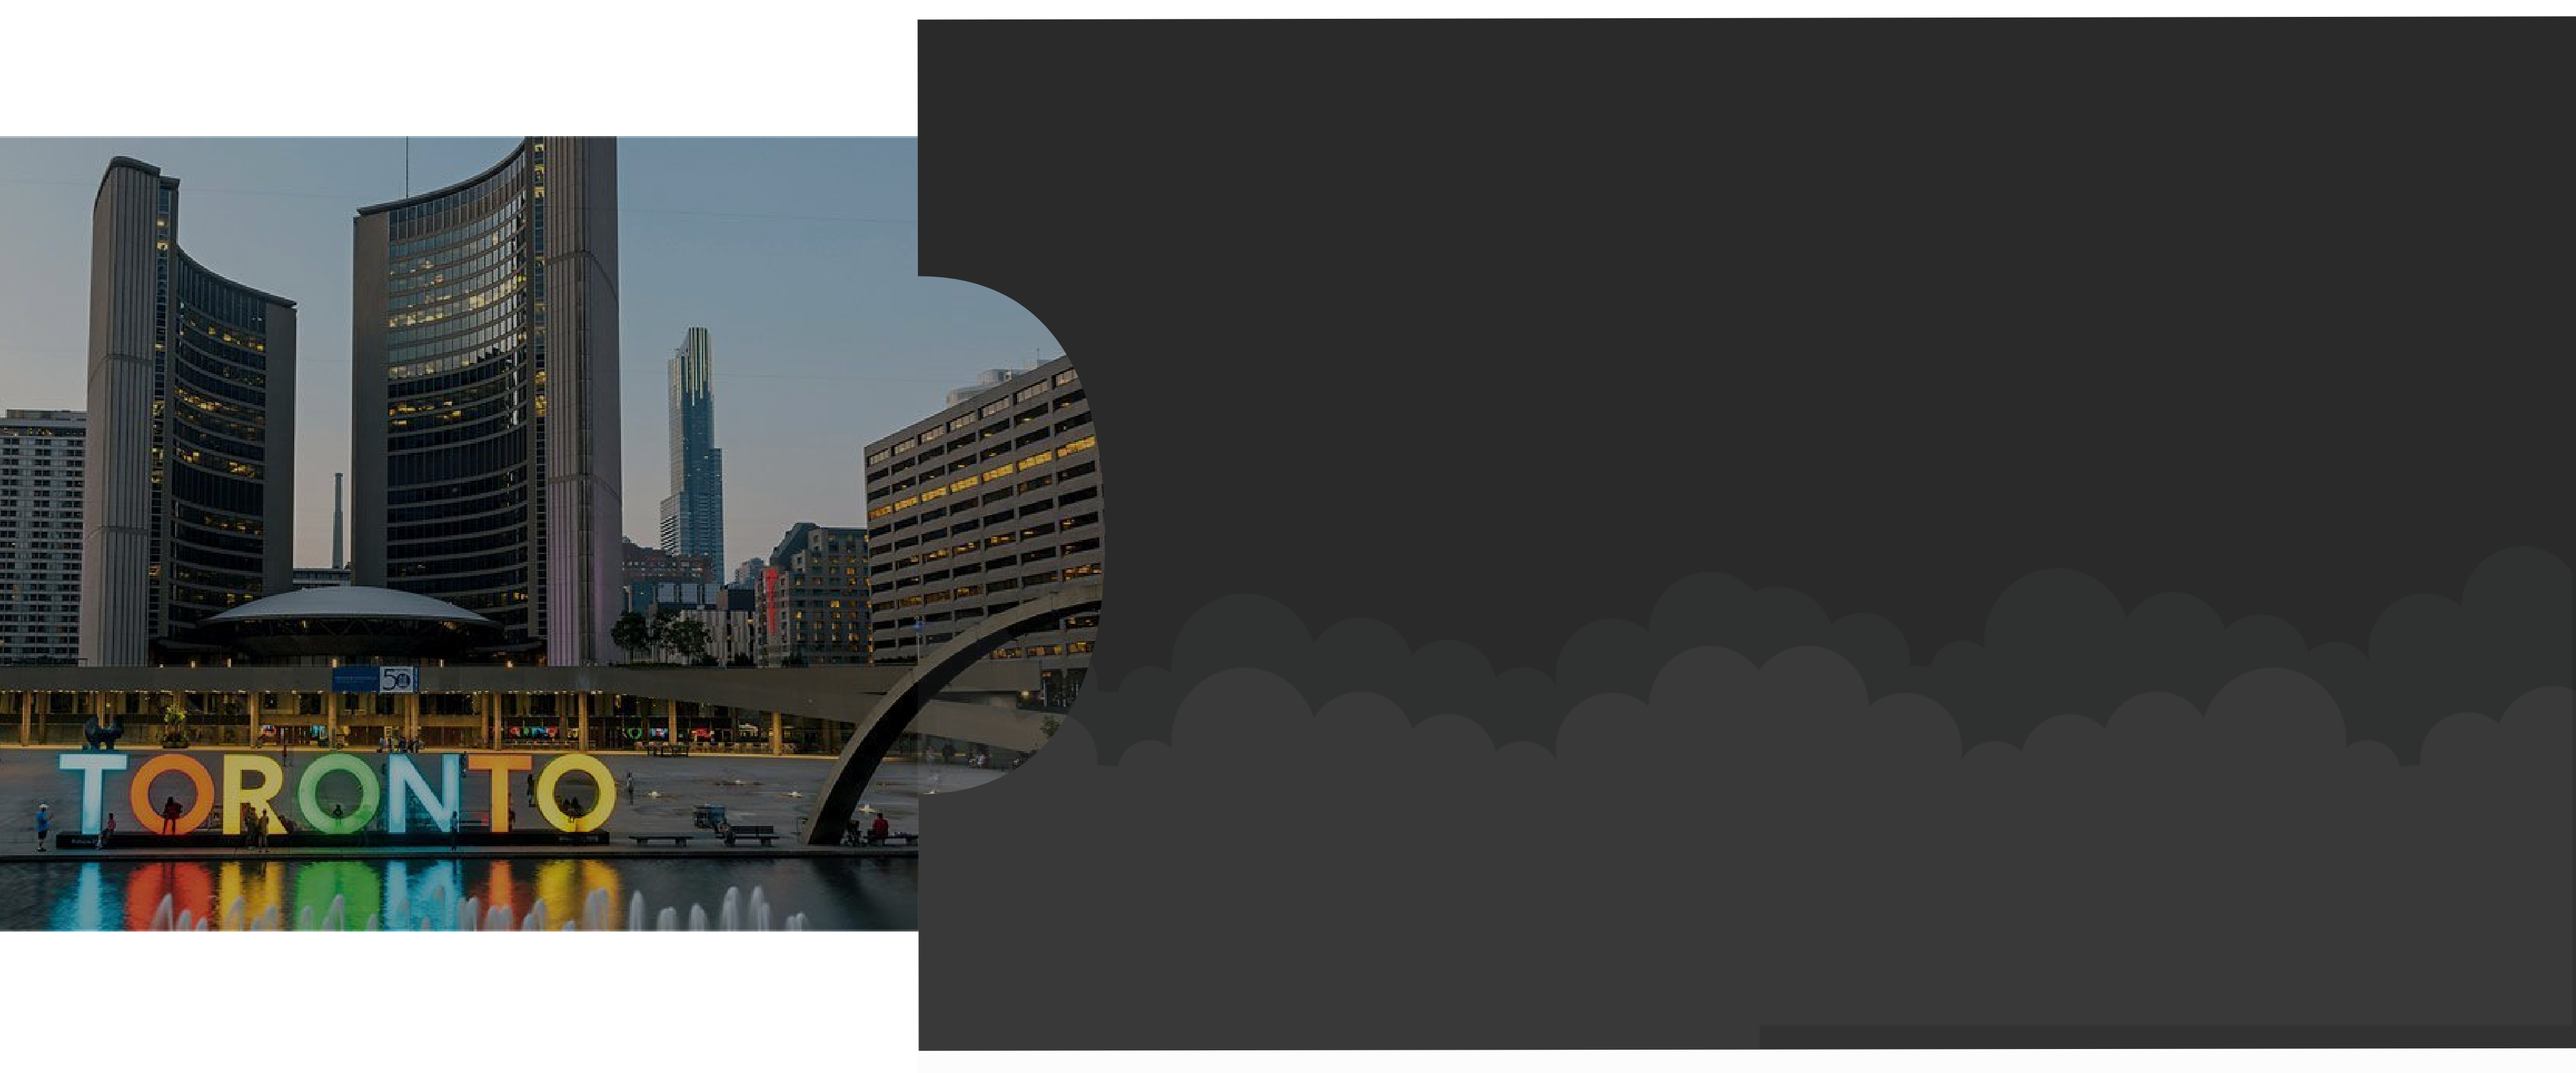
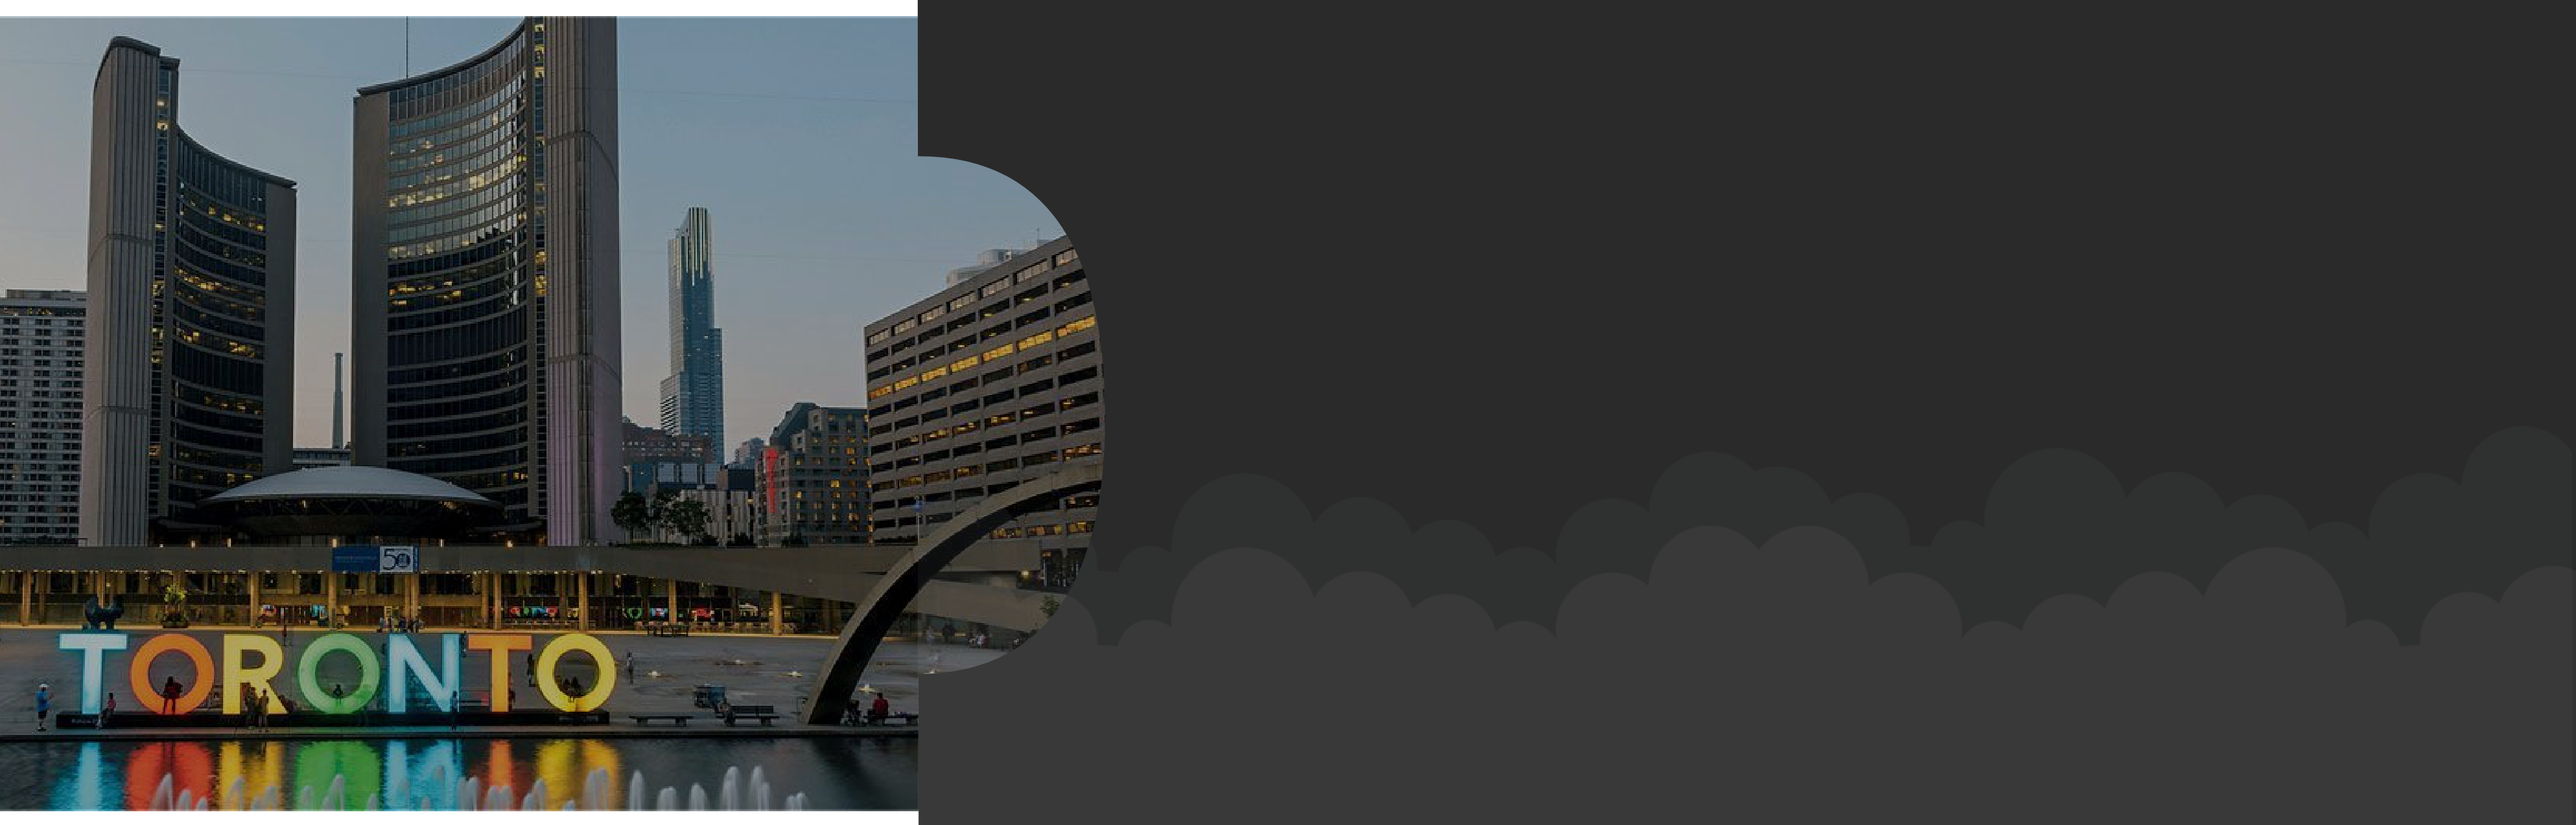
slider added and bonus section improved

Changed region(s): [[0.0, 0.0, 1.0, 1.0], [0.2496, 0.2449, 0.2808, 0.3673], [0.2496, 0.398, 0.2808, 0.4286]]

diff --git a/index.html b/index.html
@@ -254,7 +254,39 @@
                 <hr width="50px" style="height: 5px ;margin-bottom: 50px" color="red">
             </div>
             <div class="laptop-image " style="display: block">
-                <img src="img/laptop/laptop.png" width="100%" alt="">
+                <div id="demo" class="carousel slide" data-ride="carousel" data-interval="3000">
+
+                    <!-- Indicators -->
+                    <ul class="carousel-indicators">
+                        <li data-target="#demo" data-slide-to="0" class="active"></li>
+                        <li data-target="#demo" data-slide-to="1"></li>
+                        <li data-target="#demo" data-slide-to="2"></li>
+                    </ul>
+
+                    <!-- The slideshow -->
+                    <div class="carousel-inner">
+                        <div class="carousel-item active">
+                            <img src="img/laptop/laptop.png" width="100%" alt="">
+                        </div>
+                        <div class="carousel-item">
+                            <img src="img/laptop/laptop.png" width="100%" alt="">
+                        </div>
+                        <div class="carousel-item">
+                            <img src="img/laptop/laptop.png" width="100%" alt="">
+                        </div>
+                    </div>
+
+                    <!-- Left and right controls -->
+                    <a class="carousel-control-prev" href="#demo" data-slide="prev">
+                        <img src="img/prev-icon.png" width="40px">
+                    </a>
+                    <a class="carousel-control-next" href="#demo" data-slide="next">
+                        <img src="img/next-icon.png" width="40px">
+                    </a>
+
+                </div>
+
+
             </div>
             <div class="laptop-content mobile" align="center">
                 <div class="lc-text-parent lc-text-parent1">

diff --git a/css/dizruptiv.css b/css/dizruptiv.css
@@ -274,6 +274,13 @@ and (max-width : 1024px)  {
 
 }
 
+@media only screen and (min-width: 1370px){
+
+    .bonusContent
+    {
+        padding: 6.5vw 5% !important;
+    }
+}
 
 /*Only for Mobile*/
 @media only screen and (max-width: 768px) {
@@ -1180,11 +1187,12 @@ footer a{
     background-image: url("../img/bonus/background.png");
     background-size: cover;
     background-position: top right;
+    margin-top: 10px;
 }
 
 .bonusContent
 {
-    padding: 100px 15% !important;
+    padding: 3vw 5%;
 }
 
 .bonus h1{
@@ -1195,6 +1203,7 @@ footer a{
     letter-spacing: 1.2px;
     text-align: center;
     color: #fe0000;
+    text-shadow: 2px 2px 4px #000000;
 }
 
 .bonus p{
@@ -1521,5 +1530,9 @@ padding-bottom: 70px;
     left: -38px;
 }
 
+.carousel-indicators
+{
+    bottom: 60px !important;
+}
 
 
